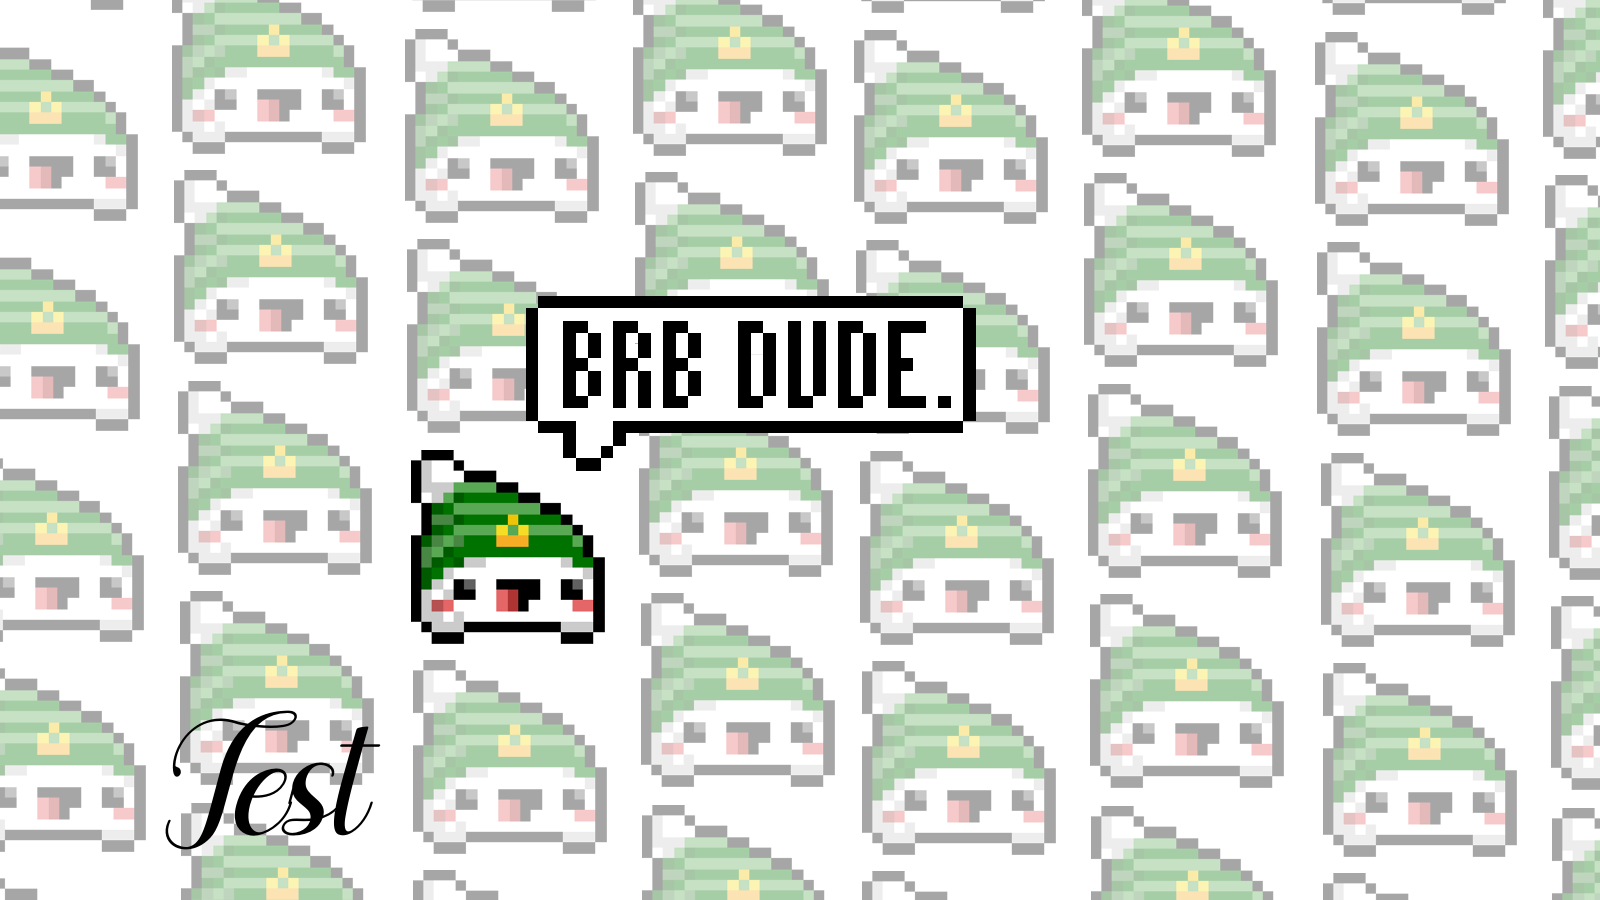
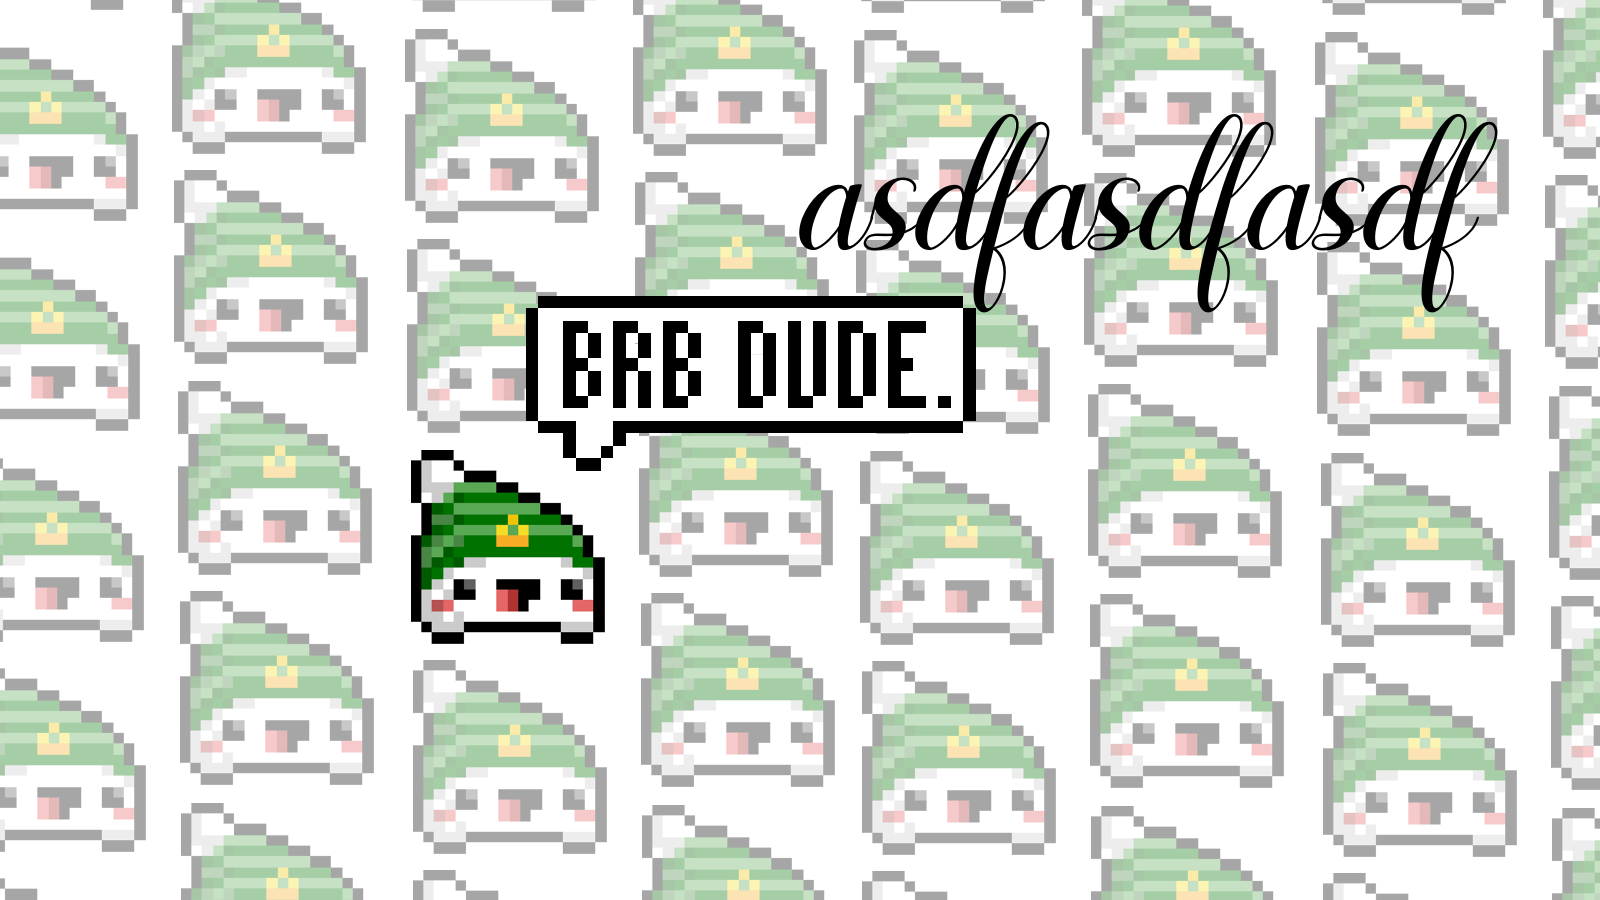
fixed stuff

Changed region(s): [[0.5, 0.1244, 0.9375, 0.3422], [0.125, 0.7778, 0.25, 0.9333]]

diff --git a/app/templates/options.html b/app/templates/options.html
@@ -182,7 +182,8 @@
                         <option value="Top Middle">Top Middle</option>
                         <option value="Top Right">Top Right</option>
                         <option value="Bottom Left">Bottom Left</option>
-                        <option value="Bottom Right">Bottom Right</option>
+                        <option value="Bottom Middle">Bottom Middle</option>
+                        <option value="Bottom Right">Bottom Right</option> 
                         <option value="Center Left">Center Left</option>
                         <option value="Center Middle">Center Middle</option>
                         <option value="Center Right">Center Right</option>

diff --git a/app/watermark.py b/app/watermark.py
@@ -111,25 +111,25 @@ def get_font_file(font_name):
 
 def get_position(pos, image):
     if pos == "top left":
-        return calc_cordinates(image, .10, .10)
+        return calc_cordinates(image, 0.10, 0.10)
     elif pos == "top middle":
-        return calc_cordinates(image, .10, .50)
+        return calc_cordinates(image, 0.50, 0.10)
     elif pos == "top right":
-        return calc_cordinates(image, .10, .75)
+        return calc_cordinates(image, 0.75, 0.10)
     elif pos == "bottom left":
-        return calc_cordinates(image, .75, .10)
+        return calc_cordinates(image, 0.10, 0.75)
     elif pos == "bottom middle":
-        return calc_cordinates(image, .75, .50)
+        return calc_cordinates(image, 0.50, 0.75)
     elif pos == "bottom right":
-        return calc_cordinates(image, .75, .75)
+        return calc_cordinates(image, 0.75, 0.75)
     elif pos == "center left":
-        return calc_cordinates(image, .50,.10)
+        return calc_cordinates(image, 0.10, 0.50)
     elif pos == "center middle":
-        return calc_cordinates(image, .50, .50)
+        return calc_cordinates(image, 0.50, 0.50)
     elif pos == "center right":
-        return calc_cordinates(image, .50, .75)
+        return calc_cordinates(image, 0.75, 0.50)
     else:
-        return calc_cordinates(image, .10, .75)
+        return calc_cordinates(image, 0.10, 0.75)
 
 
 
